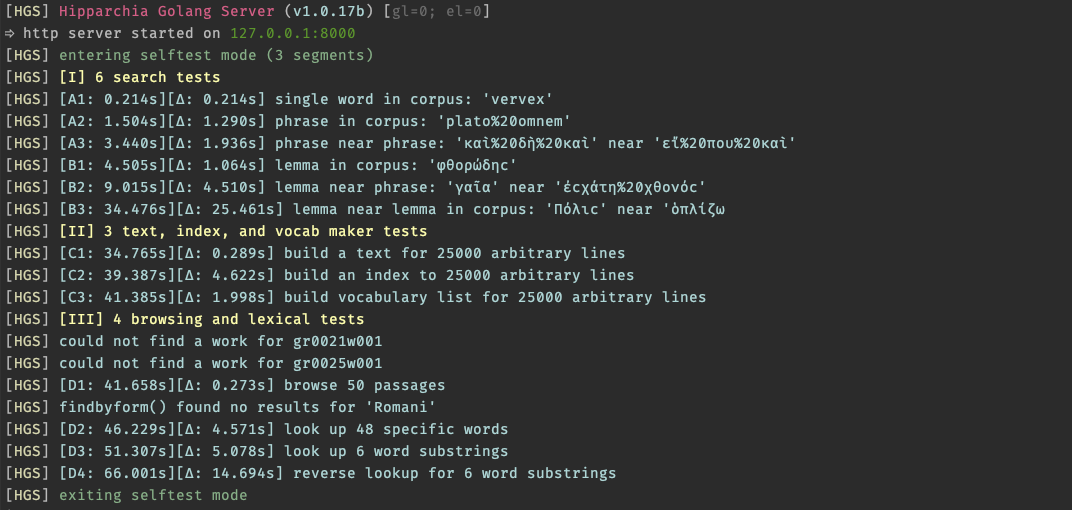
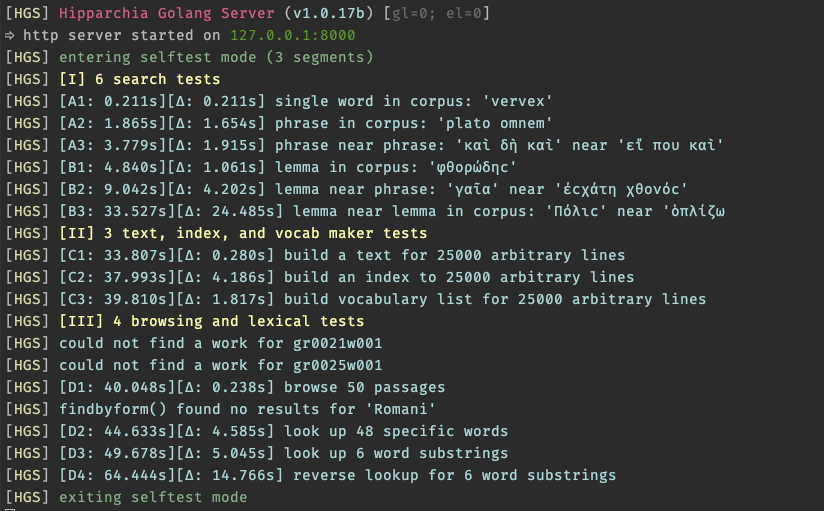
build_and_archive.sh will now cross-compile

Changed region(s): [[0.0, 0.0, 0.8799, 1.0], [0.8192, 0.3824, 0.8799, 0.4412], [0.5461, 0.0, 0.6068, 0.0294]]

diff --git a/selftestsuite.go b/selftestsuite.go
@@ -23,7 +23,7 @@ func (t *SrchTest) U() string {
 }
 
 func (t *SrchTest) M() string {
-	return fmt.Sprintf(t.m, t.t1, t.t2)
+	return fmt.Sprintf(t.m, strings.ReplaceAll(t.t1, "%20", " "), strings.ReplaceAll(t.t2, "%20", " "))
 }
 
 func selftest() {

diff --git a/main.go b/main.go
@@ -6,7 +6,6 @@
 package main
 
 import (
-	"C"
 	"encoding/json"
 	"fmt"
 	"io"

diff --git a/README.md b/README.md
@@ -33,11 +33,19 @@
 * go 1.19
 * `searchstructs.go` uses `atomic.Int64` from `sync/atomic`. `atomic.Int64` was added in go 1.19.
 
+### FYI
+
 ![options](gitimg/hgscli.png)
 
 ![selftest](gitimg/selftest.png)
+#### some selftest times
+* 64s on a mac studio
+* 113s on 6 cores of an intel 9900k running a virtualized ubuntu
+* 483s on 6 cores of apple silicon virtualizing windows 11 arm
+* 1144s (ouch) on a 2017 MacBook w/ 1.3GHz Core i5
 
 ![workflow](gitimg/hipparchia_workflow.svg)
+
 
 ```
 % cloc *go
